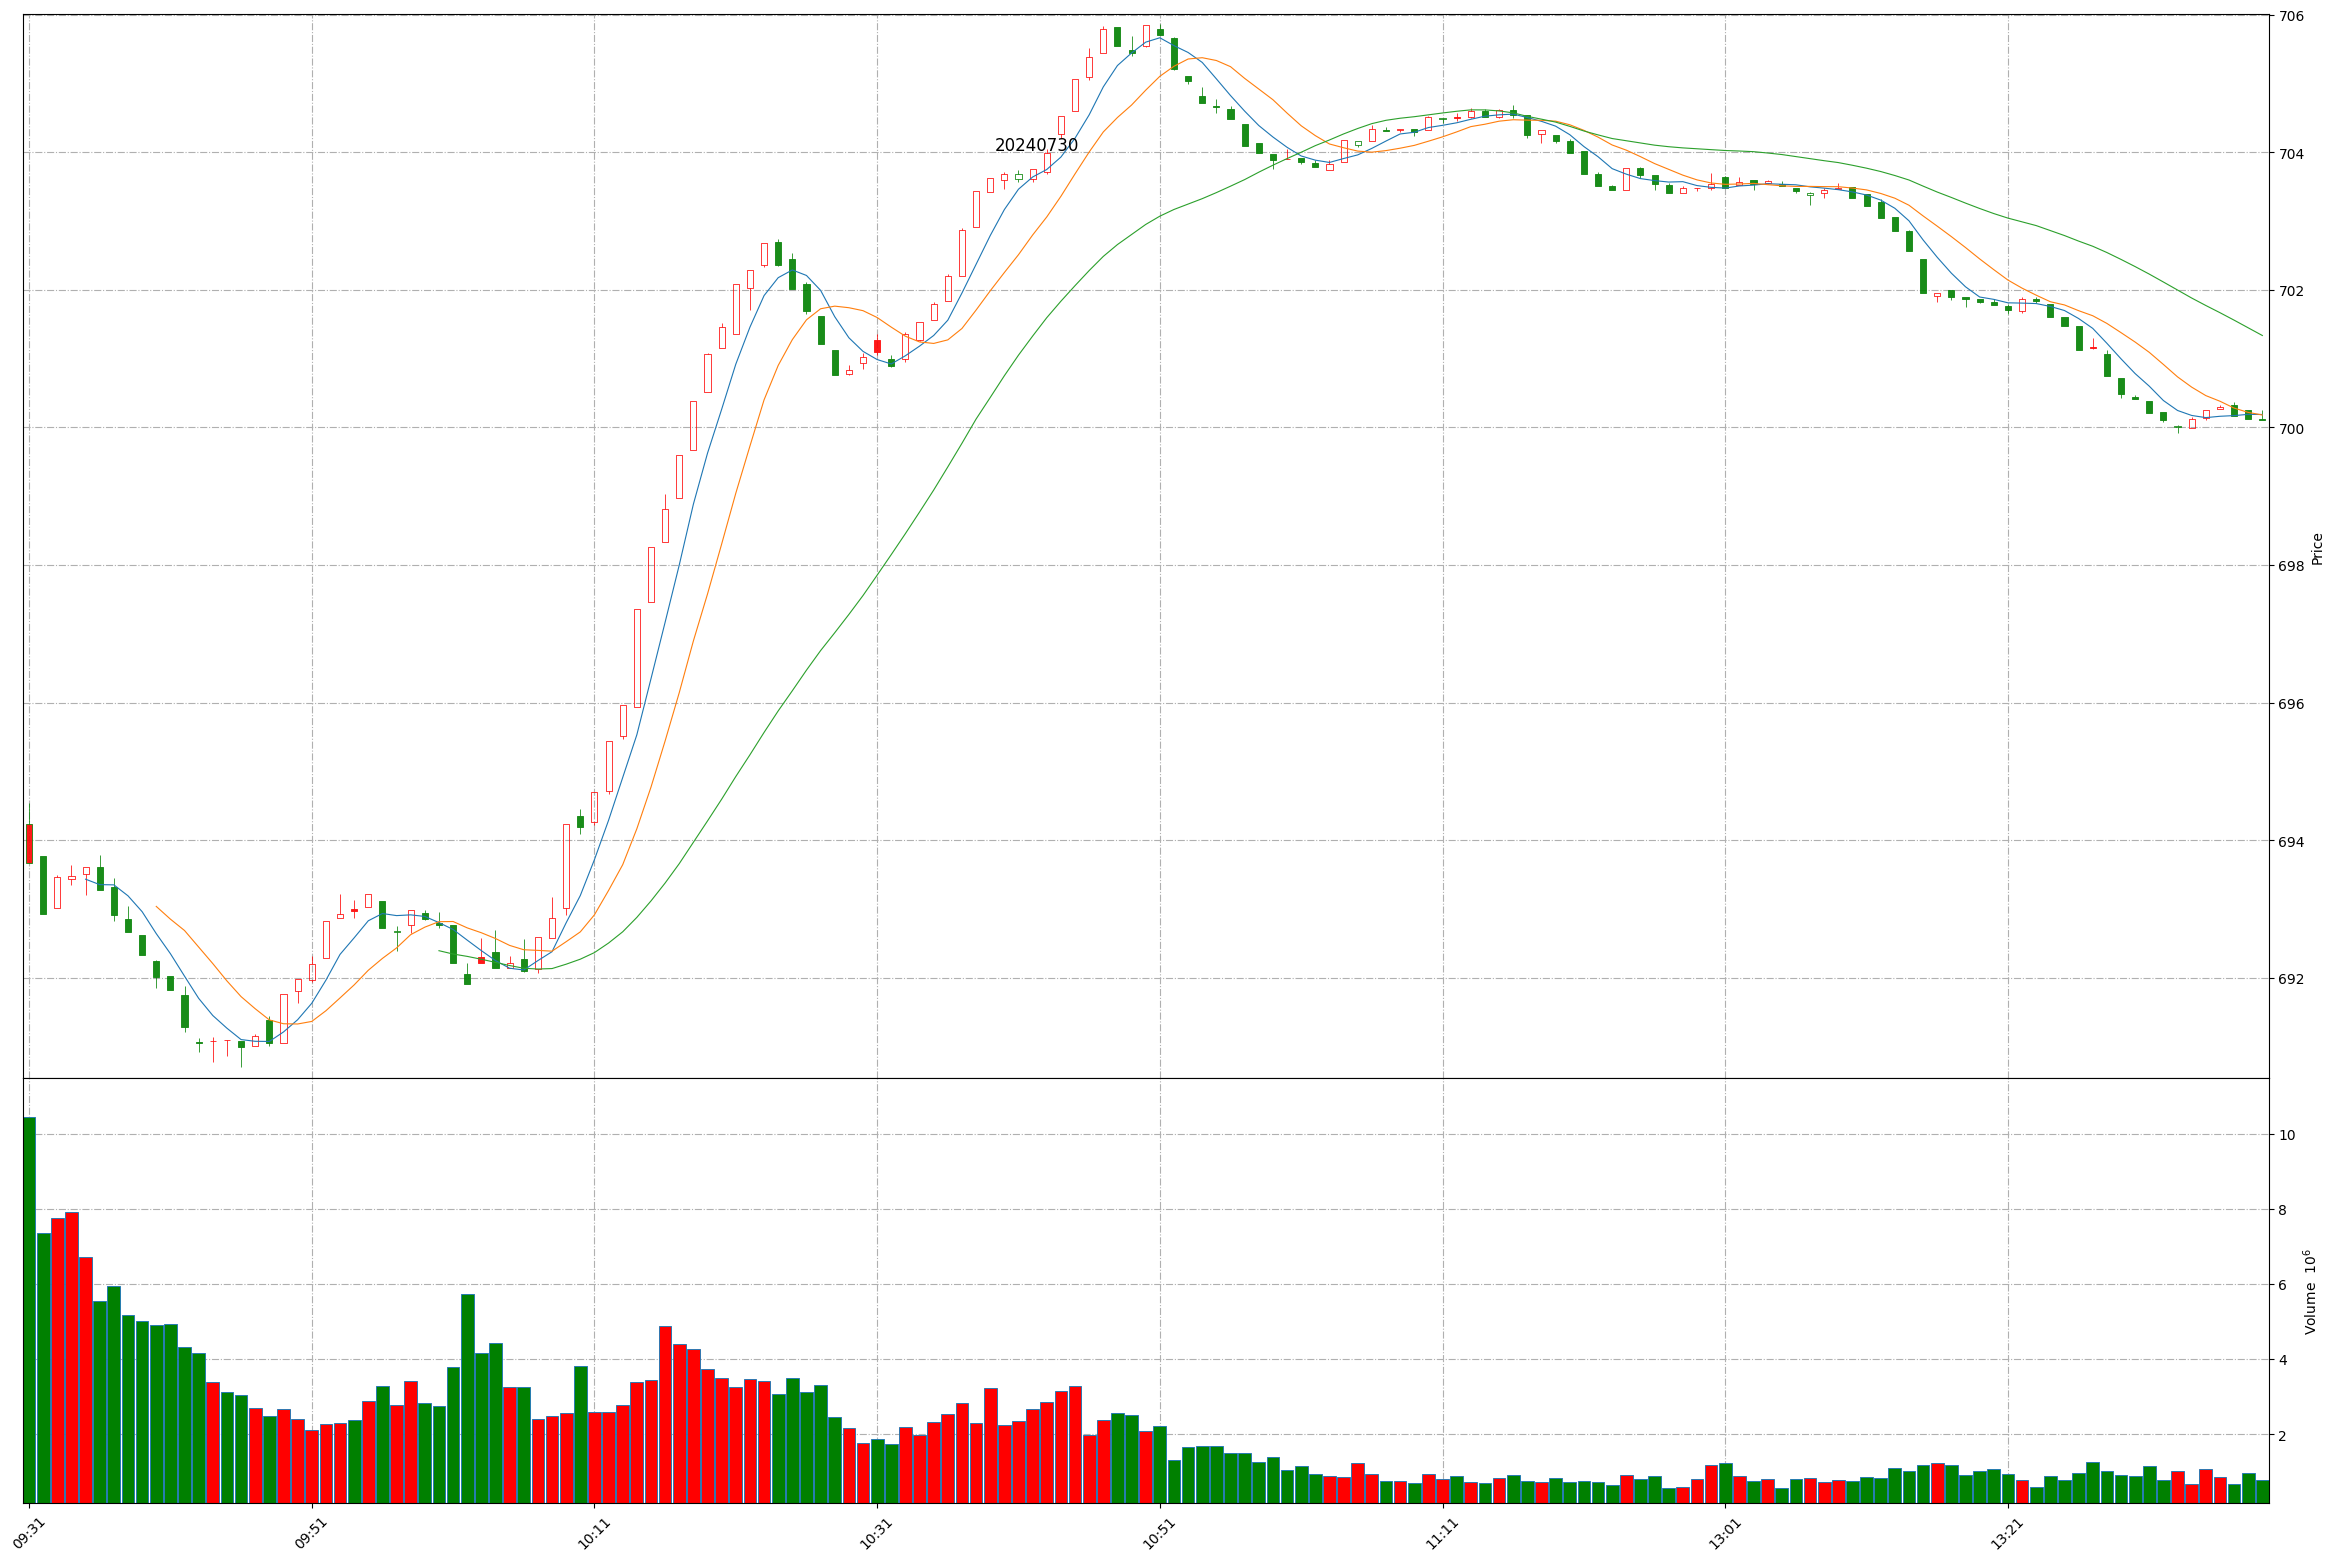
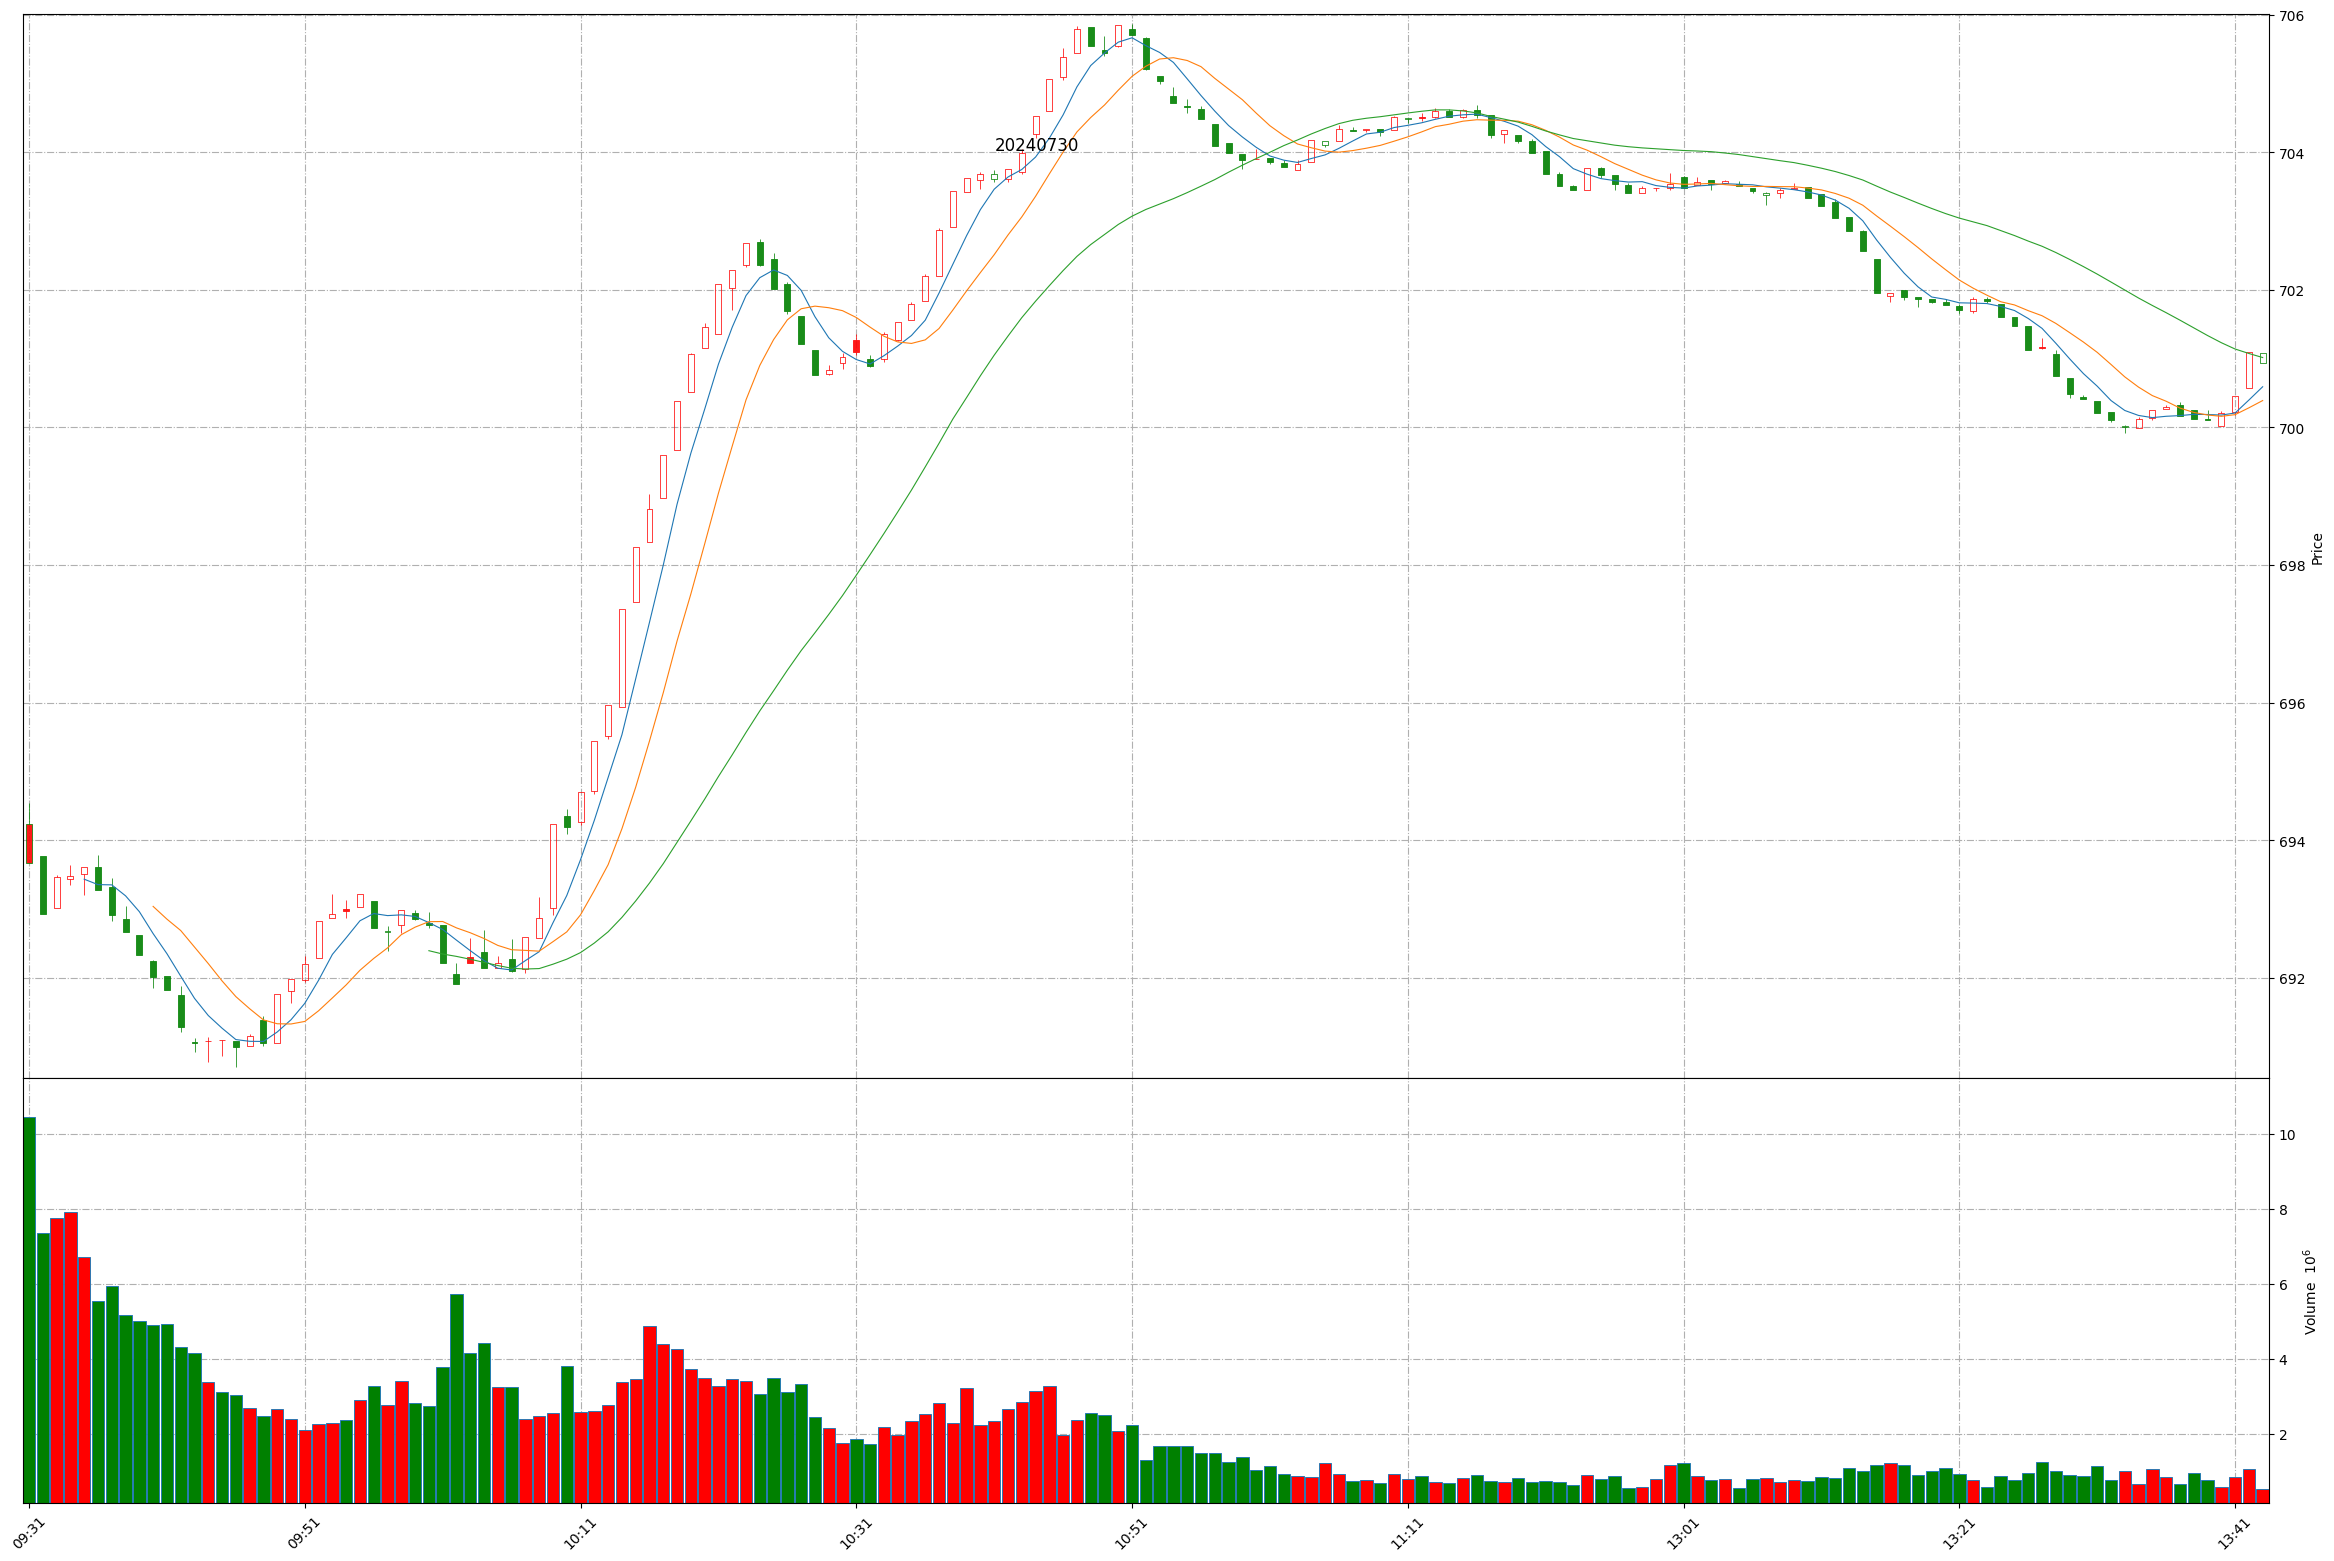
Github action update at 2024-07-30 13:42:35.

diff --git a/README.md b/README.md
@@ -1,11 +1,11 @@
 
 # Daily-A-share-market-quotes 每日 A 股指数（5min 更新）- 20240730
 
-### 上证指数 20240730 13:39
+### 上证指数 20240730 13:42
 ![](./fig/2024/7/20240730-sh000001.png)
 
-### 深证成指 20240730 13:39
+### 深证成指 20240730 13:42
 ![](./fig/2024/7/20240730-sz399001.png)
 
-### 北证50 20240730 13:39
+### 北证50 20240730 13:42
 ![](./fig/2024/7/20240730-bj899050.png)
